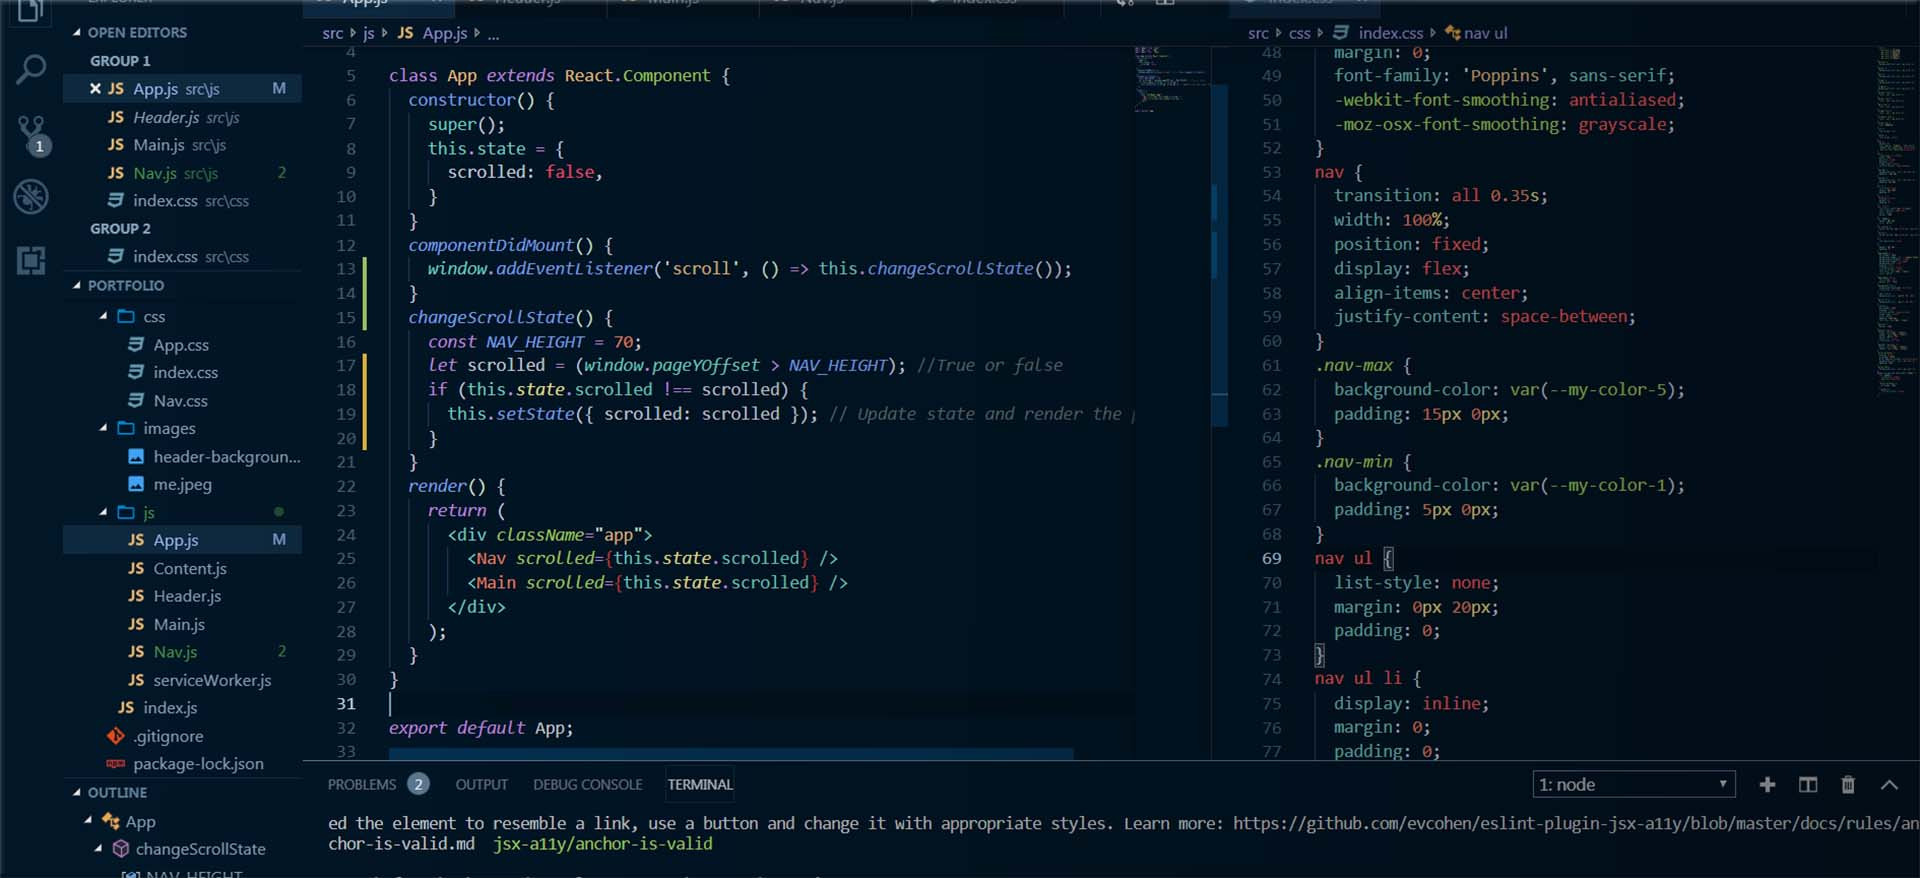
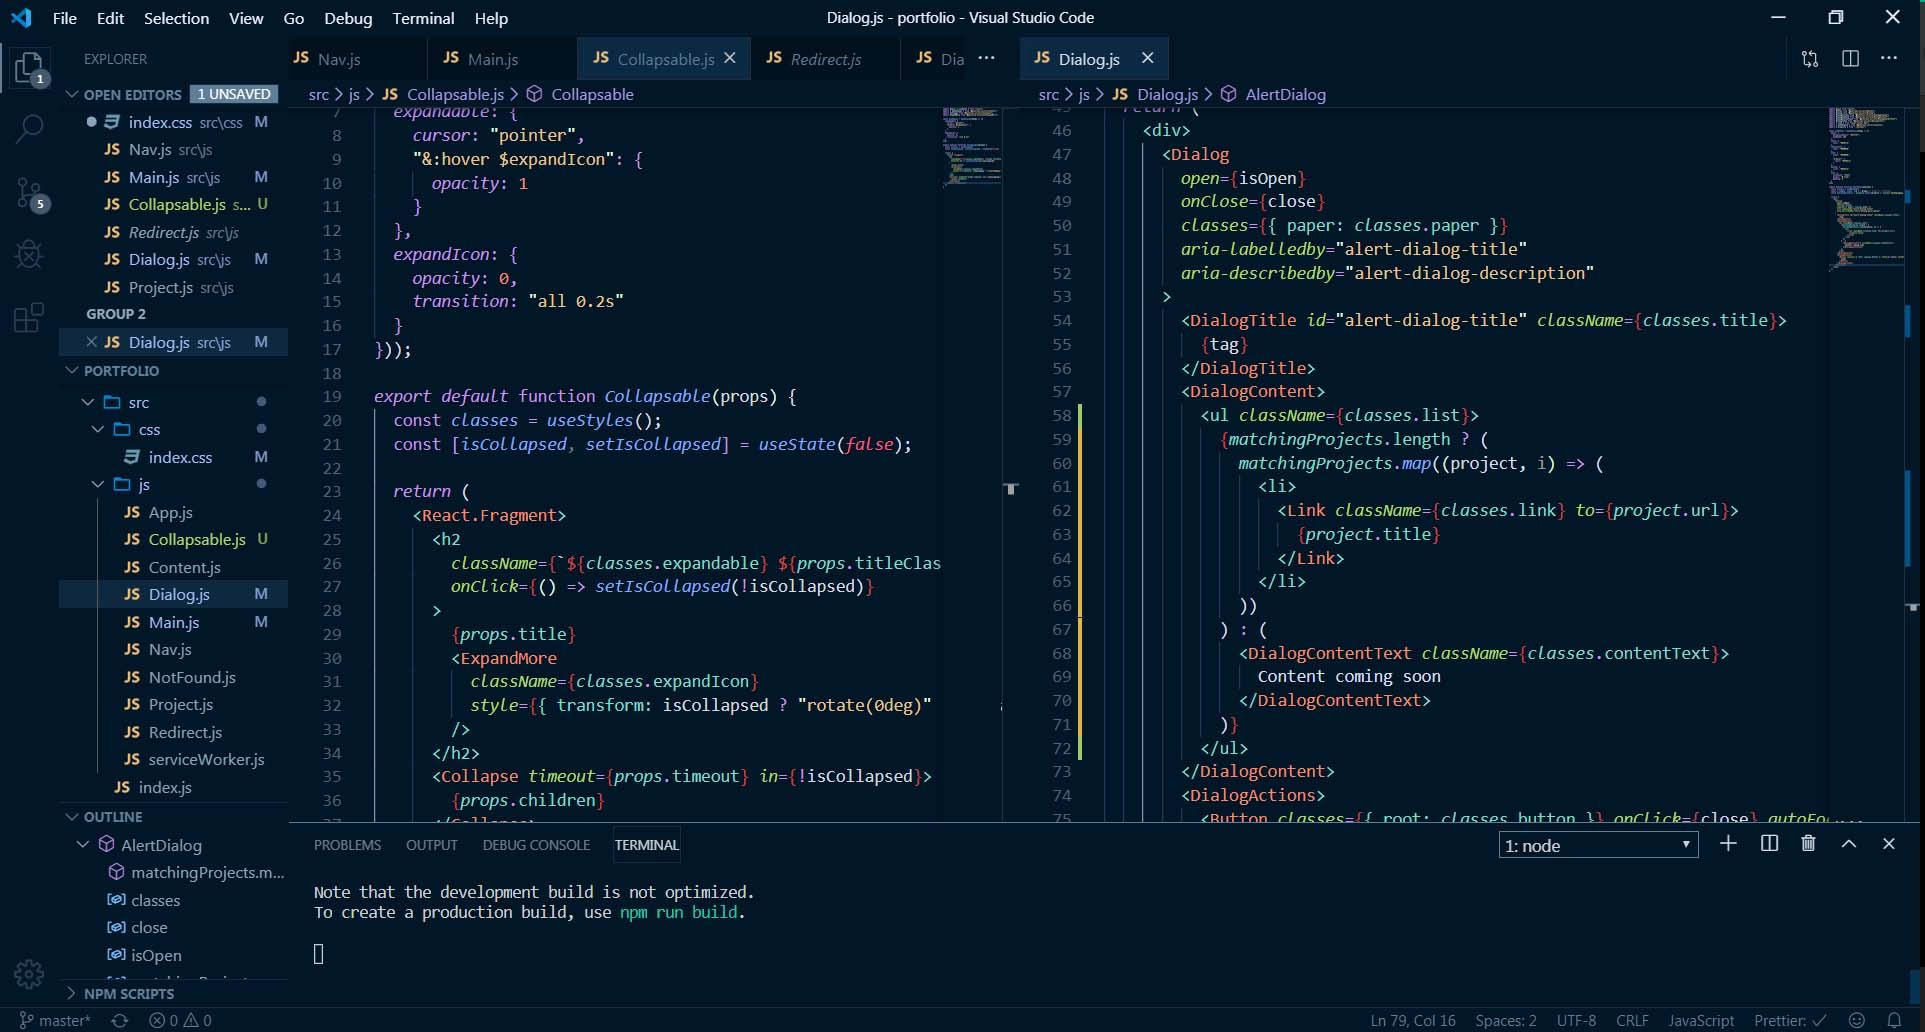
Chips for dialog

diff --git a/src/js/Main.js b/src/js/Main.js
@@ -4,7 +4,7 @@ import { makeStyles } from "@material-ui/core/styles";
 import Button from "@material-ui/core/Button";
 import { Link } from "react-router-dom";
 import Dialog from "./Dialog";
-import Collapse from "@material-ui/core/Collapse";
+import Collapsable from "./Collapsable";
 
 const useStyles = makeStyles(theme => ({
   roundButton: {
@@ -17,13 +17,22 @@ const useStyles = makeStyles(theme => ({
     margin: 0,
     fontWeight: "inherit",
     textTransform: "none"
+  },
+  expandable: {
+    cursor: "pointer",
+    "&:hover $expandIcon": {
+      opacity: 1
+    }
+  },
+  expandIcon: {
+    opacity: 0,
+    transition: "all 0.2s"
   }
 }));
 
 function Main(props) {
   const classes = useStyles();
   const [dialog, setDialog] = useState({ open: false, tag: "" });
-  const [skillsCollapsed, setSkillsCollapsed] = useState(false);
 
   function getAge() {
     const bDay = new Date("1997-09-28T12:00:00");
@@ -51,7 +60,7 @@ function Main(props) {
             I'm studying <b>Information and Communications technology</b> at JAMK University of
             Applied Sciences.
           </p>
-          <p>I specialize in Software Development and have 2 years of school behind me.</p>
+          <p>I specialize in Software Development and I am on the 3rd year of my studies.</p>
           <br />
           <p>
             In the future, I'm hoping to work with embedded software, but I am also experienced
@@ -71,13 +80,7 @@ function Main(props) {
       </div>
       <div id="tools" className="content dark center">
         <div>
-          <h2
-            className="light-cyan-font clickable"
-            onClick={() => setSkillsCollapsed(!skillsCollapsed)}
-          >
-            Skills and tools
-          </h2>
-          <Collapse timeout={750} in={!skillsCollapsed}>
+          <Collapsable title="Skills and tools" titleClass="light-cyan-font" timeout={750}>
             <div className="grid-container">
               {skills.map((skill, i) => (
                 <div className="grid-item" key={i}>
@@ -91,13 +94,14 @@ function Main(props) {
                 </div>
               ))}
             </div>
-          </Collapse>
+          </Collapsable>
         </div>
       </div>
       <div id="projects" className="content deep-dark center">
         <div>
-          <h2 className="cyan-font">Projects</h2>
-          <ImageGrid overlayColor="dark" fontColor="light-cyan-font" items={projects} />
+          <Collapsable title="Projects" titleClass="cyan-font" timeout={750}>
+            <ImageGrid overlayColor="dark" fontColor="light-cyan-font" items={projects} />
+          </Collapsable>
         </div>
       </div>
       <div className="disclaimer dark center">
@@ -118,6 +122,7 @@ function Main(props) {
         isOpen={dialog.open}
         tag={dialog.tag}
         close={() => setDialog({ ...dialog, open: false })}
+        setTag={setDialog}
       />
     </React.Fragment>
   );

diff --git a/src/js/Dialog.js b/src/js/Dialog.js
@@ -5,13 +5,15 @@ import DialogActions from "@material-ui/core/DialogActions";
 import DialogContent from "@material-ui/core/DialogContent";
 import DialogContentText from "@material-ui/core/DialogContentText";
 import DialogTitle from "@material-ui/core/DialogTitle";
+import Chip from "@material-ui/core/Chip";
 import { Link } from "react-router-dom";
 import { makeStyles } from "@material-ui/core/styles";
 import { projects } from "./Content";
 
 const useStyles = makeStyles(theme => ({
   paper: {
-    backgroundColor: "#171717"
+    backgroundColor: "#171717",
+    minWidth: 350
   },
   title: {
     color: "#8561c5"
@@ -28,6 +30,26 @@ const useStyles = makeStyles(theme => ({
   },
   button: {
     color: "#8561c5"
+  },
+  projects: {},
+  project: {
+    margin: "1rem 0"
+  },
+  chip: {},
+  chips: {
+    maxWidth: 350,
+    "& > div": {
+      margin: theme.spacing(0.5),
+      backgroundColor: "#008394",
+      color: "#fff",
+
+      "&:hover": {
+        backgroundColor: "#673ab7"
+      },
+      "&:active": {
+        backgroundColor: "#673ab7"
+      }
+    }
   }
 }));
 
@@ -49,19 +71,32 @@ export default function AlertDialog(props) {
           {tag}
         </DialogTitle>
         <DialogContent>
-          {matchingProjects.length ? (
-            matchingProjects.map((project, i) => (
-              <div>
-                <Link className={classes.link} to={project.url}>
-                  {project.title}
-                </Link>
-              </div>
-            ))
-          ) : (
-            <DialogContentText className={classes.contentText}>
-              Content coming soon
-            </DialogContentText>
-          )}
+          <div className={classes.projects}>
+            {matchingProjects.length ? (
+              matchingProjects.map((project, i) => (
+                <div className={classes.project}>
+                  <Link className={classes.link} to={project.url}>
+                    {project.title}
+                  </Link>
+                  <hr />
+                  <div className={classes.chips}>
+                    {project.technologies.map((technology, i) => (
+                      <Chip
+                        onClick={() => props.setTag({ open: true, tag: technology })}
+                        label={technology}
+                        style={{ backgroundColor: technology === tag ? "#482880" : "" }}
+                        key={i}
+                      />
+                    ))}
+                  </div>
+                </div>
+              ))
+            ) : (
+              <DialogContentText className={classes.contentText}>
+                Content coming soon
+              </DialogContentText>
+            )}
+          </div>
         </DialogContent>
         <DialogActions>
           <Button classes={{ root: classes.button }} onClick={close} autoFocus>

diff --git a/src/js/Collapsable.js b/src/js/Collapsable.js
@@ -1,0 +1,40 @@
+import React, { useState } from "react";
+import { makeStyles } from "@material-ui/core/styles";
+import Collapse from "@material-ui/core/Collapse";
+import ExpandMore from "@material-ui/icons/ExpandMore";
+
+const useStyles = makeStyles(theme => ({
+  expandable: {
+    cursor: "pointer",
+    "&:hover $expandIcon": {
+      opacity: 1
+    }
+  },
+  expandIcon: {
+    opacity: 0,
+    transition: "all 0.2s"
+  }
+}));
+
+export default function Collapsable(props) {
+  const classes = useStyles();
+  const [isCollapsed, setIsCollapsed] = useState(false);
+
+  return (
+    <React.Fragment>
+      <h2
+        className={`${classes.expandable} ${props.titleClass}`}
+        onClick={() => setIsCollapsed(!isCollapsed)}
+      >
+        {props.title}
+        <ExpandMore
+          className={classes.expandIcon}
+          style={{ transform: isCollapsed ? "rotate(0deg)" : "rotate(-180deg)" }}
+        />
+      </h2>
+      <Collapse timeout={props.timeout} in={!isCollapsed}>
+        {props.children}
+      </Collapse>
+    </React.Fragment>
+  );
+}

diff --git a/src/css/index.css b/src/css/index.css
@@ -152,6 +152,11 @@ p {
   margin: 0px 0px;
   padding: 0;
 }
+
+#about {
+  min-height: 55vh;
+}
+
 .divider {
   padding: 38px;
 }
@@ -220,7 +225,7 @@ p {
 }
 .grid-container {
   display: grid;
-  grid-gap: 5rem;
+  grid-gap: 3.5rem 5rem;
   grid-template-columns: auto auto auto;
   padding: 1rem;
 }
